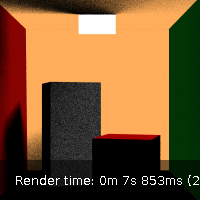
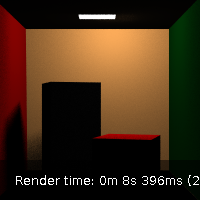
initial direct diffuse on path tracing

diff --git a/src/cg/render/materials/Diffuse.java b/src/cg/render/materials/Diffuse.java
@@ -1,14 +1,17 @@
 package cg.render.materials;
 
+import cg.math.MathUtils;
 import cg.math.Vec2;
 import cg.math.Vec3;
 import cg.parser.Channel;
+import cg.rand.MultiJitteredSampler;
 import cg.render.Collision;
 import cg.render.Color;
 import cg.render.Light;
 import cg.render.Material;
 import cg.render.PathData;
 import cg.render.Scene;
+import cg.render.Light.VisibilityResult;
 import cg.render.assets.Texture;
 
 public class Diffuse extends Material {
@@ -67,6 +70,16 @@ public class Diffuse extends Material {
 				c = c.sum(result);
 			}
 		}
+		
+		for (Light light : scene.getAreaLights()) {
+			VisibilityResult visibility = light.sampledVisibleFrom(col);
+			if (visibility.isVisible) {
+				Vec3 surfaceToLight = visibility.lightSurface.sub(col.getPosition()).normalize();
+				double cosAngle = surfaceToLight.dot(col.getNormal());
+				Color result = (light.getColor().mul(light.getIntensity())).mul(cosAngle);
+				c = c.sum(result);
+			}
+		}
 
 		Color myColor = color;
 		if (colorTexture != null) {
@@ -75,6 +88,13 @@ public class Diffuse extends Material {
 		}
 		
 		// Indirect Lightning
+		
+		MultiJitteredSampler sampler = scene.getSamplerCaches().poll();
+		Vec2 sample = sampler.getRandomSample();
+		scene.getSamplerCaches().offer(sampler);
+		
+		Vec3 hemisphereSample = MathUtils.squareToHemisphere(sample.x, sample.y).normalize();
+		
 		PathData pd = new PathData();
 		pd.color = myColor.mul(c);
 		return pd;

diff --git a/src/cg/rand/MultiJitteredSampler.java b/src/cg/rand/MultiJitteredSampler.java
@@ -1,5 +1,7 @@
 package cg.rand;
 
+import cg.math.Vec2;
+
 public class MultiJitteredSampler {
 	
 	/* Correlated Multi-Jittered Sampler */
@@ -63,6 +65,13 @@ public class MultiJitteredSampler {
 	
 	public int getSize() {
 		return size;
+	}
+	
+	public Vec2 getRandomSample() {
+		int index = (int)(Math.random() * (size * size));
+		double x = xCoords[index];
+		double y = yCoords[index];
+		return new Vec2(x, y);
 	}
 	
 	public void generateSamples() {

diff --git a/src/cg/render/Scene.java b/src/cg/render/Scene.java
@@ -86,11 +86,19 @@ public class Scene {
 	}
 
 	public void addLight(Light l) {
-		lights.add(l);
+		if (l.isRenderable()) {
+			areaLights.add(l);
+		} else {			
+			lights.add(l);
+		}
 	}
 	
 	public List<Light> getLights() {
 		return lights;
+	}
+	
+	public List<Light> getAreaLights() {
+		return areaLights;
 	}
 	
 	public Camera getCamera() {
